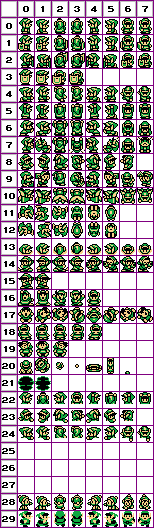
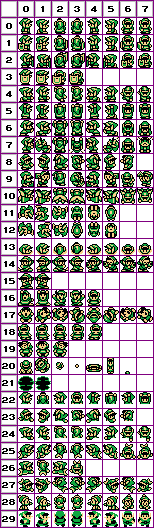
Added player mermaid animations (plus debug key Ctrl+Q to quit game)

Changed region(s): [[0.1039, 0.8182, 0.987, 0.9394]]

diff --git a/ZeldaOracle/Game/Game/GameDataAnimations.cs b/ZeldaOracle/Game/Game/GameDataAnimations.cs
@@ -99,6 +99,11 @@ namespace ZeldaOracle.Game {
 		public static Animation ANIM_PLAYER_MINECART_SWING;
 		public static Animation ANIM_PLAYER_MINECART_SWING_NOLUNGE;
 		public static Animation ANIM_PLAYER_MINECART_SWING_BIG;
+		public static Animation ANIM_PLAYER_MERMAID_SWIM;
+		public static Animation ANIM_PLAYER_MERMAID_AIM;
+		public static Animation ANIM_PLAYER_MERMAID_SWING;
+		public static Animation ANIM_PLAYER_MERMAID_SPIN;
+		public static Animation ANIM_PLAYER_MERMAID_STAB;
 
 		// Monster animations.
 		public static Animation ANIM_MONSTER_OCTOROK;
@@ -254,7 +259,7 @@ namespace ZeldaOracle.Game {
 		// Animations Loading
 		//-----------------------------------------------------------------------------
 
-		private static void LoadAnimations() {
+		public static void LoadAnimations() {
 			Resources.LoadAnimations("Animations/animations.conscript");
 
 			// Create gale effect animation.

diff --git a/ZeldaOracle/Game/Game/Debug/GameDebug.cs b/ZeldaOracle/Game/Game/Debug/GameDebug.cs
@@ -76,6 +76,9 @@ namespace ZeldaOracle.Game.Debug {
 						gameControl.PushRoomState(new RoomStateColorBarrier(c));
 				}
 			}
+			// CTRL+Q: Quit the game
+			if (Keyboard.IsKeyPressed(Keys.Q) && Keyboard.IsKeyDown(Keys.LControl))
+				GameManager.Exit();
 			// CTRL+R: Restart the game.
 			if (Keyboard.IsKeyPressed(Keys.R) && Keyboard.IsKeyDown(Keys.LControl))
 				GameManager.Restart();
